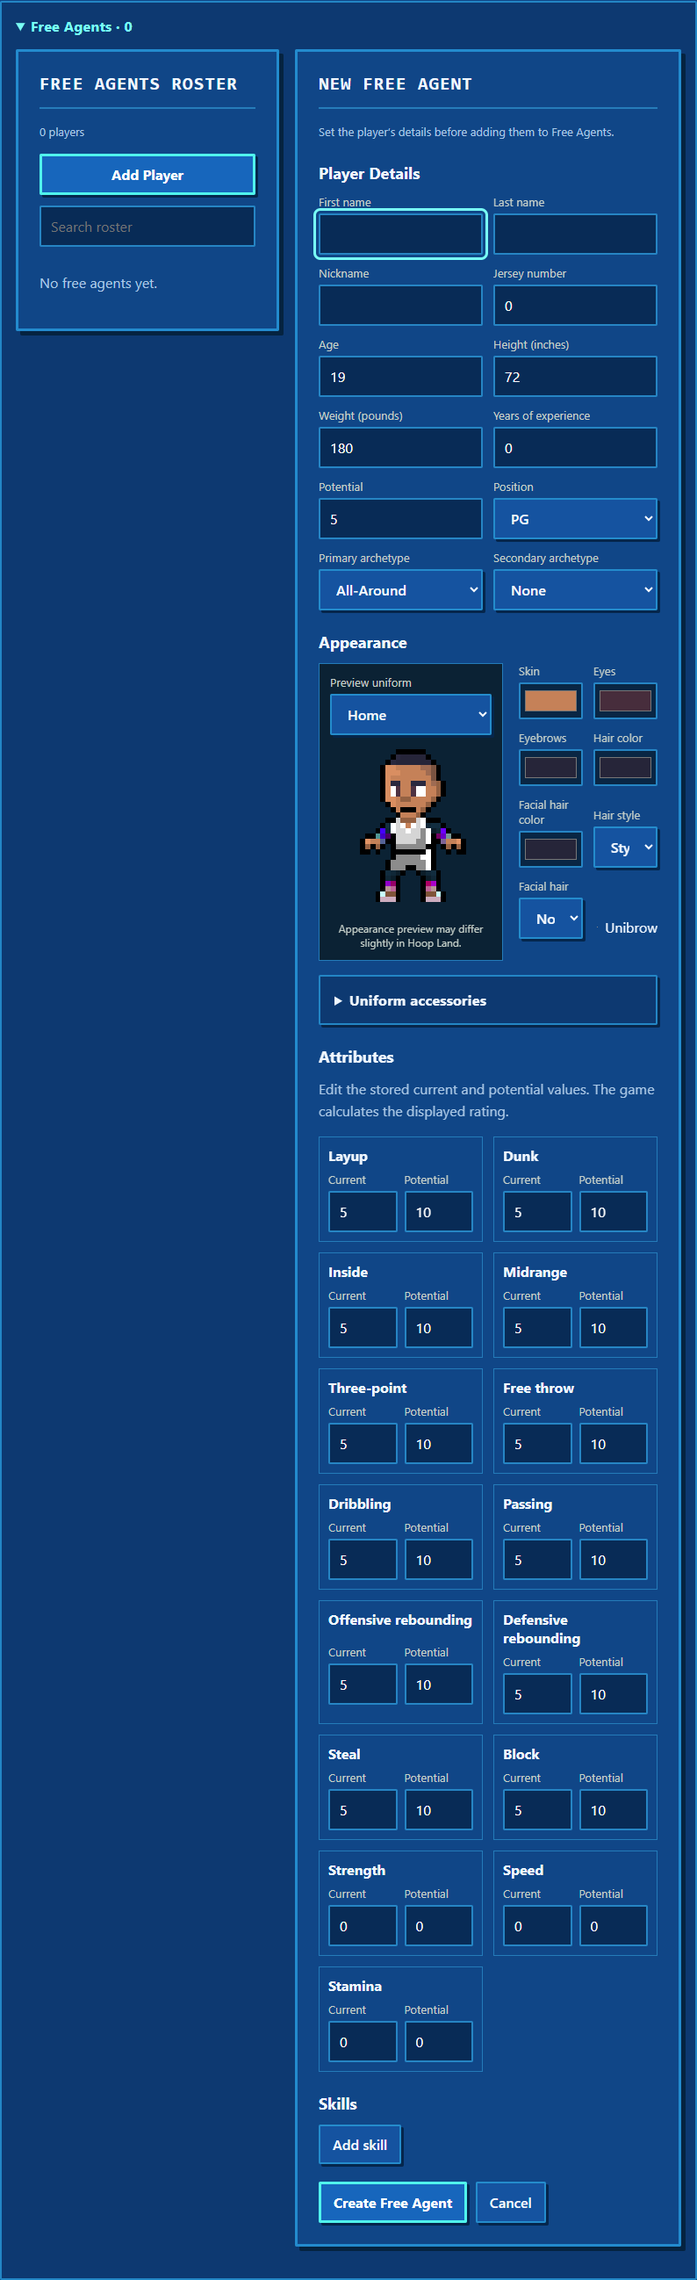
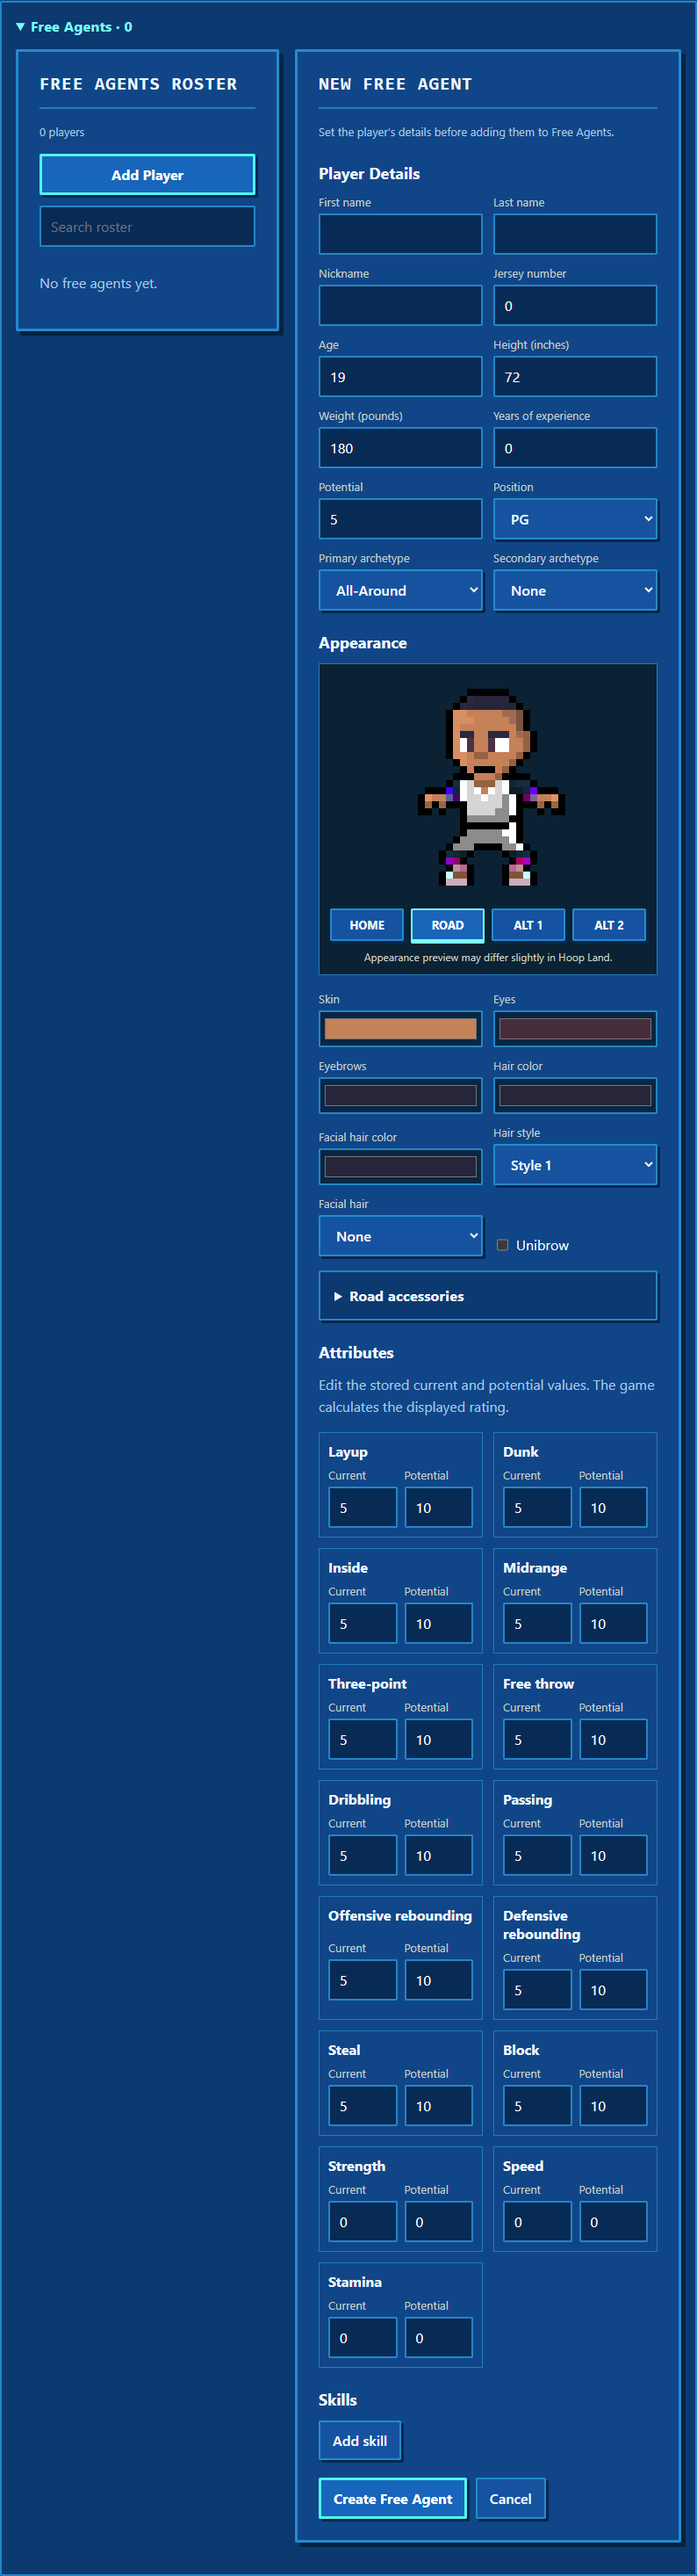
update player editor

Changed region(s): [[0.4232, 0.0, 0.9673, 0.9985], [0.0302, 0.0, 0.4232, 0.156]]

diff --git a/roster-manager.js b/roster-manager.js
@@ -33,6 +33,19 @@
   if(!options.some(([id])=>String(id)===String(value))){const option=node('option','',`Imported value ${value}`);option.value=String(value);control.append(option)}
   control.value=String(value);control.onchange=()=>change(control.value);row(parent,title,control);return control;
  }
+ function colorInput(parent,title,value,change,team){
+  const wrap=node('div','roster-field roster-color-field'),line=node('div','color-line'),swatch=node('input'),code=node('input'),reference=node('select');
+  wrap.append(node('span','',title),line);swatch.type='color';code.type='text';code.maxLength=7;
+  swatch.setAttribute('aria-label',title+' custom color');code.setAttribute('aria-label',title+' value');reference.setAttribute('aria-label',title+' team color');
+  for(const [id,label]of [['','Custom'],['PRI','Primary'],['SEC','Secondary'],['TER','Tertiary']]){const option=node('option','',label);option.value=id;reference.append(option)}
+  const resolved=stored=>{const index={PRI:0,SEC:1,TER:2}[String(stored||'').toUpperCase()],chosen=index===undefined?stored:team?.teamColors?.[index];return /^#?[\da-f]{6}$/i.test(String(chosen||''))?'#'+String(chosen).replace('#',''):'#ffffff'};
+  const sync=stored=>{swatch.value=resolved(stored);code.value=String(stored??'');reference.value=['PRI','SEC','TER'].includes(stored)?stored:''};
+  const commit=stored=>{change(stored);sync(stored)};
+  swatch.oninput=()=>commit(swatch.value.slice(1).toUpperCase());
+  reference.onchange=()=>commit(reference.value||swatch.value.slice(1).toUpperCase());
+  code.onchange=()=>{const next=code.value.trim().replace(/^#/,'').toUpperCase();if(next&&!/^(?:[\da-f]{6}|PRI|SEC|TER)$/.test(next)){code.setCustomValidity('Use a six-digit color or a team color.');code.reportValidity();return}code.setCustomValidity('');commit(next)};
+  line.append(swatch,code,reference);parent.append(wrap);sync(value)
+ }
  window.HLSRosterManager={
   focusId:null,
   render(parent,{league,teamIndex,change,move,freeAgents=false,draftPlayer=null,onAddPlayer=null,onCreatePlayer=null,onCancelPlayer=null}){
@@ -47,11 +60,11 @@
     add.disabled=true;try{await onAddPlayer()}finally{add.disabled=false}
    };listPanel.insertBefore(add,search)}
    shell.append(listPanel,editor);parent.append(shell);
-   let active=draftPlayer||roster.find(player=>player.id===this.focusId)||roster[0]||null;
+   let active=draftPlayer||roster.find(player=>player.id===this.focusId)||roster[0]||null,selectedUniformIndex=0;
    const path=(player,...keys)=>player===draftPlayer?['draft',...keys]:freeAgents?['freeAgents',roster.indexOf(player),...keys]:['teams',teamIndex,'roster',roster.indexOf(player),...keys];
    const commit=(player,key,value)=>{change(path(player,key),value);drawList();if(player===draftPlayer)editor.querySelector('h2').textContent=name(player)};
    const drawList=()=>{list.replaceChildren();const query=search.value.trim().toLocaleLowerCase();for(const player of roster.filter(player=>name(player).toLocaleLowerCase().includes(query)||String(player.num??'').includes(query))){
-    const button=node('button','roster-player',`${player.num??'—'} · ${name(player)} · ${positionNames[player.pos]||(player.pos??'—')}`);button.type='button';button.classList.toggle('active',player===active);button.setAttribute('aria-pressed',String(player===active));button.onclick=()=>{active=player;this.focusId=player.id;drawList();drawEditor()};list.append(button)
+    const button=node('button','roster-player',`${player.num??'—'} · ${name(player)} · ${positionNames[player.pos]||(player.pos??'—')}`);button.type='button';button.classList.toggle('active',player===active);button.setAttribute('aria-pressed',String(player===active));button.onclick=()=>{active=player;selectedUniformIndex=0;this.focusId=player.id;drawList();drawEditor()};list.append(button)
    }if(!list.children.length)list.append(node('p','',freeAgents&&!roster.length?'No free agents yet.':'No matching players.'))};
    const drawEditor=()=>{
     editor.replaceChildren();if(!active){editor.append(node('h2','',freeAgents?'No free agents yet':'No players on this team'));return}
@@ -63,17 +76,22 @@
     moveRow.append(target,button);editor.append(node('h3','',freeAgents?'Add to a team':'Move to another team'),moveRow)}
     const identity=node('div','roster-fields');editor.append(node('h3','','Player Details'),identity);
     for(const [key,title]of [['fn','First name'],['ln','Last name'],['tag','Nickname']])if(key in player){const control=input(identity,title,player[key],value=>commit(player,key,value));if(creating&&['fn','ln'].includes(key))control.required=true}
-    for(const [key,title]of [['num','Jersey number'],['age','Age'],['ht','Height (inches)'],['wt','Weight (pounds)'],['yrs','Years of experience'],['pot','Potential']])if(key in player)input(identity,title,player[key],value=>commit(player,key,value),{type:'number',min:0,max:key==='num'?99:999,step:1});
+    for(const [key,title]of [['num','Jersey number'],['age','Age'],['ht','Height (inches)'],['wt','Weight (pounds)'],['yrs','Years of experience'],['pot','Potential']])if(key in player)input(identity,title,player[key],value=>commit(player,key,value),{type:'number',min:0,max:key==='num'?99:key==='pot'?10:999,step:1});
     if('pos'in player)select(identity,'Position',player.pos,positionNames.map((title,id)=>[id,title]),value=>commit(player,'pos',Number(value)));
     const archetypeOptions=[[0,'None'],...archetypes.map((title,index)=>[index+1,title])];
     for(const [key,title]of [['pri','Primary archetype'],['sec','Secondary archetype']])if(key in player)select(identity,title,player[key],archetypeOptions,value=>{commit(player,key,Number(value));drawEditor()});
     if(player.appearance){
      const appearance=node('div','roster-appearance'),preview=node('div','roster-appearance-preview'),canvas=node('canvas');
      canvas.width=canvas.height=32;canvas.setAttribute('role','img');canvas.setAttribute('aria-label','Animated player appearance preview');
-     let uniformIndex=0,redraw=()=>{};
+     let uniformIndex=selectedUniformIndex,redraw=()=>{};
      const outfits=(player.accessories||[]).map((_,index)=>[index,['Home','Road','Alt 1','Alt 2'][index]||`Uniform ${index+1}`]);
-     if(outfits.length)select(preview,'Preview uniform',0,outfits,value=>{uniformIndex=Number(value);drawAccessories();redraw()});
-     preview.append(canvas,node('small','','Appearance preview may differ slightly in Hoop Land.'));
+     const uniformTabs=node('div','roster-uniform-tabs');uniformTabs.setAttribute('role','group');uniformTabs.setAttribute('aria-label','Uniform appearance');
+     for(const [index,title]of outfits){const button=node('button','roster-uniform-tab',title);button.type='button';button.setAttribute('aria-pressed',String(index===uniformIndex));button.onclick=()=>{
+      uniformIndex=selectedUniformIndex=index;
+      for(const tab of uniformTabs.children){const selected=tab===button;tab.classList.toggle('selected',selected);tab.setAttribute('aria-pressed',String(selected))}
+      drawAccessories();redraw()
+     };button.classList.toggle('selected',index===uniformIndex);uniformTabs.append(button)}
+     preview.append(canvas,uniformTabs,node('small','','Appearance preview may differ slightly in Hoop Land.'));
      const fields=node('div','roster-appearance-fields');appearance.append(preview,fields);
      editor.append(node('h3','','Appearance'),appearance);
      const update=(key,value)=>{change([...base,'appearance',key],value);redraw()};
@@ -86,15 +104,15 @@
       select(fields,title,player.appearance[key],options,value=>update(key,value))
      }
      if('unibrow'in player.appearance){const label=node('label','roster-check'),check=node('input');check.type='checkbox';check.checked=!!player.appearance.unibrow;check.onchange=()=>update('unibrow',check.checked);label.append(check,' Unibrow');fields.append(label)}
-     const accessories=node('details','roster-accessories'),accessoryFields=node('div','roster-appearance-fields');
-     accessories.append(node('summary','','Uniform accessories'),accessoryFields);editor.append(accessories);
-     const drawAccessories=()=>{accessoryFields.replaceChildren();const gear=player.accessories?.[uniformIndex];if(!gear)return;
+     const accessories=node('details','roster-accessories'),accessorySummary=node('summary'),accessoryFields=node('div','roster-appearance-fields');
+     accessories.append(accessorySummary,accessoryFields);editor.append(accessories);
+     const drawAccessories=()=>{accessorySummary.textContent=`${outfits[uniformIndex]?.[1]||`Uniform ${uniformIndex+1}`} accessories`;accessoryFields.replaceChildren();const gear=player.accessories?.[uniformIndex];if(!gear)return;
       for(const [key,title,empty]of [['headAcc','Head accessory','none'],['headAcc2','Second head accessory','0000']])if(key in gear){
        const options=[[empty,'None'],...Array.from({length:25},(_,i)=>[String(i+1).padStart(4,'0'),`Style ${i+1}`])];
        select(accessoryFields,title,gear[key],options,value=>{change([...base,'accessories',uniformIndex,key],value);redraw()})
       }
       const names={headAccC:'Head accessory color',headAcc2C:'Second head accessory color',L_Shoulder:'Left shoulder',R_Shoulder:'Right shoulder',L_Elbow:'Left elbow',R_Elbow:'Right elbow',L_Wrist:'Left wrist',R_Wrist:'Right wrist',L_Knee:'Left knee',R_Knee:'Right knee',L_Shin:'Left shin',R_Shin:'Right shin',sockC:'Socks',shoeC:'Shoes',laceC:'Laces',soleC:'Soles'};
-      for(const [key,title]of Object.entries(names))if(key in gear)input(accessoryFields,title,gear[key],value=>{change([...base,'accessories',uniformIndex,key],value.trim().toUpperCase());redraw()})
+      for(const [key,title]of Object.entries(names))if(key in gear)colorInput(accessoryFields,title,gear[key],value=>{change([...base,'accessories',uniformIndex,key],value);redraw()},team)
      };drawAccessories();
      redraw=window.HLSPlayerPreview.mount(canvas,()=>({player,team,uniformIndex}));
     }

diff --git a/roster-manager.css b/roster-manager.css
@@ -17,10 +17,12 @@
 .roster-field>input,.roster-field>select{width:100%}
 .roster-attribute{border:1px solid var(--line);padding:10px;display:grid;grid-template-columns:1fr 1fr;gap:8px}
 .roster-attribute>strong{grid-column:1/-1}
-.roster-appearance{display:grid;grid-template-columns:210px minmax(0,1fr);gap:18px;align-items:start}
+.roster-appearance{display:grid;grid-template-columns:minmax(0,1fr);gap:18px;align-items:start}
 .roster-appearance-preview{display:grid;justify-items:center;gap:10px;padding:12px;border:1px solid var(--line);background:#0b2234}
-.roster-appearance-preview .roster-field{width:100%}
-.roster-appearance-preview canvas{width:192px;height:192px;max-width:100%;image-rendering:pixelated}
+.roster-appearance-preview canvas{width:256px;height:256px;max-width:100%;image-rendering:pixelated}
+.roster-uniform-tabs{display:grid;grid-template-columns:repeat(4,minmax(0,1fr));gap:8px;width:100%}
+.roster-uniform-tab{min-width:0;padding:8px 3px;font-size:13px;font-weight:700;text-transform:uppercase;white-space:nowrap}
+.roster-uniform-tab.selected{border-color:#79fff4;color:#fff;box-shadow:0 3px 0 #79fff4}
 .roster-appearance-preview small{font-size:12px;color:#c6d0c9;text-align:center}
 .roster-appearance-fields{display:grid;grid-template-columns:repeat(2,minmax(0,1fr));gap:12px;align-items:end}
 .roster-accessories{margin-top:16px}.roster-accessories summary{cursor:pointer}.roster-accessories .roster-appearance-fields{margin-top:12px}
@@ -30,4 +32,4 @@
 .roster-check input{width:auto}
 .roster-skill>button{grid-column:1/-1;justify-self:start}
 @media(max-width:900px){.roster-manager{grid-template-columns:1fr}.roster-list{max-height:220px}}
-@media(max-width:620px){.roster-fields,.roster-attributes,.roster-appearance-fields{grid-template-columns:1fr}.roster-appearance{grid-template-columns:1fr}.roster-skill{grid-template-columns:repeat(2,minmax(0,1fr))}}
+@media(max-width:620px){.roster-fields,.roster-attributes,.roster-appearance-fields{grid-template-columns:1fr}.roster-skill{grid-template-columns:repeat(2,minmax(0,1fr))}.roster-uniform-tabs{gap:4px}.roster-uniform-tab{font-size:11px;padding-inline:2px}}

diff --git a/sw.js b/sw.js
@@ -1,4 +1,4 @@
-const CACHE_NAME='hls-pwa-v123';
+const CACHE_NAME='hls-pwa-v126';
 const CORE=[
   './',
   './index.html',

diff --git a/docs/roster-data.md b/docs/roster-data.md
@@ -8,6 +8,8 @@ Skill descriptions are brief paraphrases of the developer's [original skill list
 
 The appearance editor changes the game's original `appearance` and per-uniform `accessories` fields. Its animated preview uses head, hair, facial-hair, eye, and idle-body textures extracted from the installed Steam build. The preview approximates the game's shader-based skin and uniform tinting; exported values remain the original Hoop Land fields.
 
+In the bundled Pro and College templates, each attribute stores `[current, potential cap]` on a 0–20 scale. Player `pot` is a separate overall potential value; the template range tops out at 10. Strength, speed, and stamina are stored as `[0, 0]` in these templates, so those raw fields should not be read as their displayed physical ratings. The four `accessories` entries correspond by array index to the team's four `uniforms`: 0 Home, 1 Road, 2 Alt 1, 3 Alt 2. Matching `PRI`/`SEC`/`TER` accessory colors and uniform colors in the shipped teams reinforce that mapping. The four buttons beneath the player preview select both the displayed uniform and the accessory record being edited. Accessory color controls offer those team-color references, a custom color picker, and direct hex entry; only the selected uniform's accessory record changes.
+
 League Configuration's inline Free Agents roster sits between Simulation Sliders and Retired Numbers. Its list has Add Player at the top. Add Player clones the sanitized rookie schema in `data/player-blueprint.json` into a temporary draft in the adjacent editor. Only Create Free Agent allocates a unique person ID, assigns no team (`tid: 0`), and appends the edited draft to `freeAgents`. Existing free agents remain selectable for editing or moving onto a team without leaving League Configuration. Letter logos are previews made from the installed game's letter textures and team colors; they do not replace `logoURL` in exports.
 
 The readable assets do not reveal the complete formulas for displayed player rating, skill effects, or all game modifiers. The editor changes stored values and leaves rating calculation to Hoop Land. Before adding a calculated rating or skill effect preview, the compiled game behavior needs to be traced and compared with examples inside the game.
